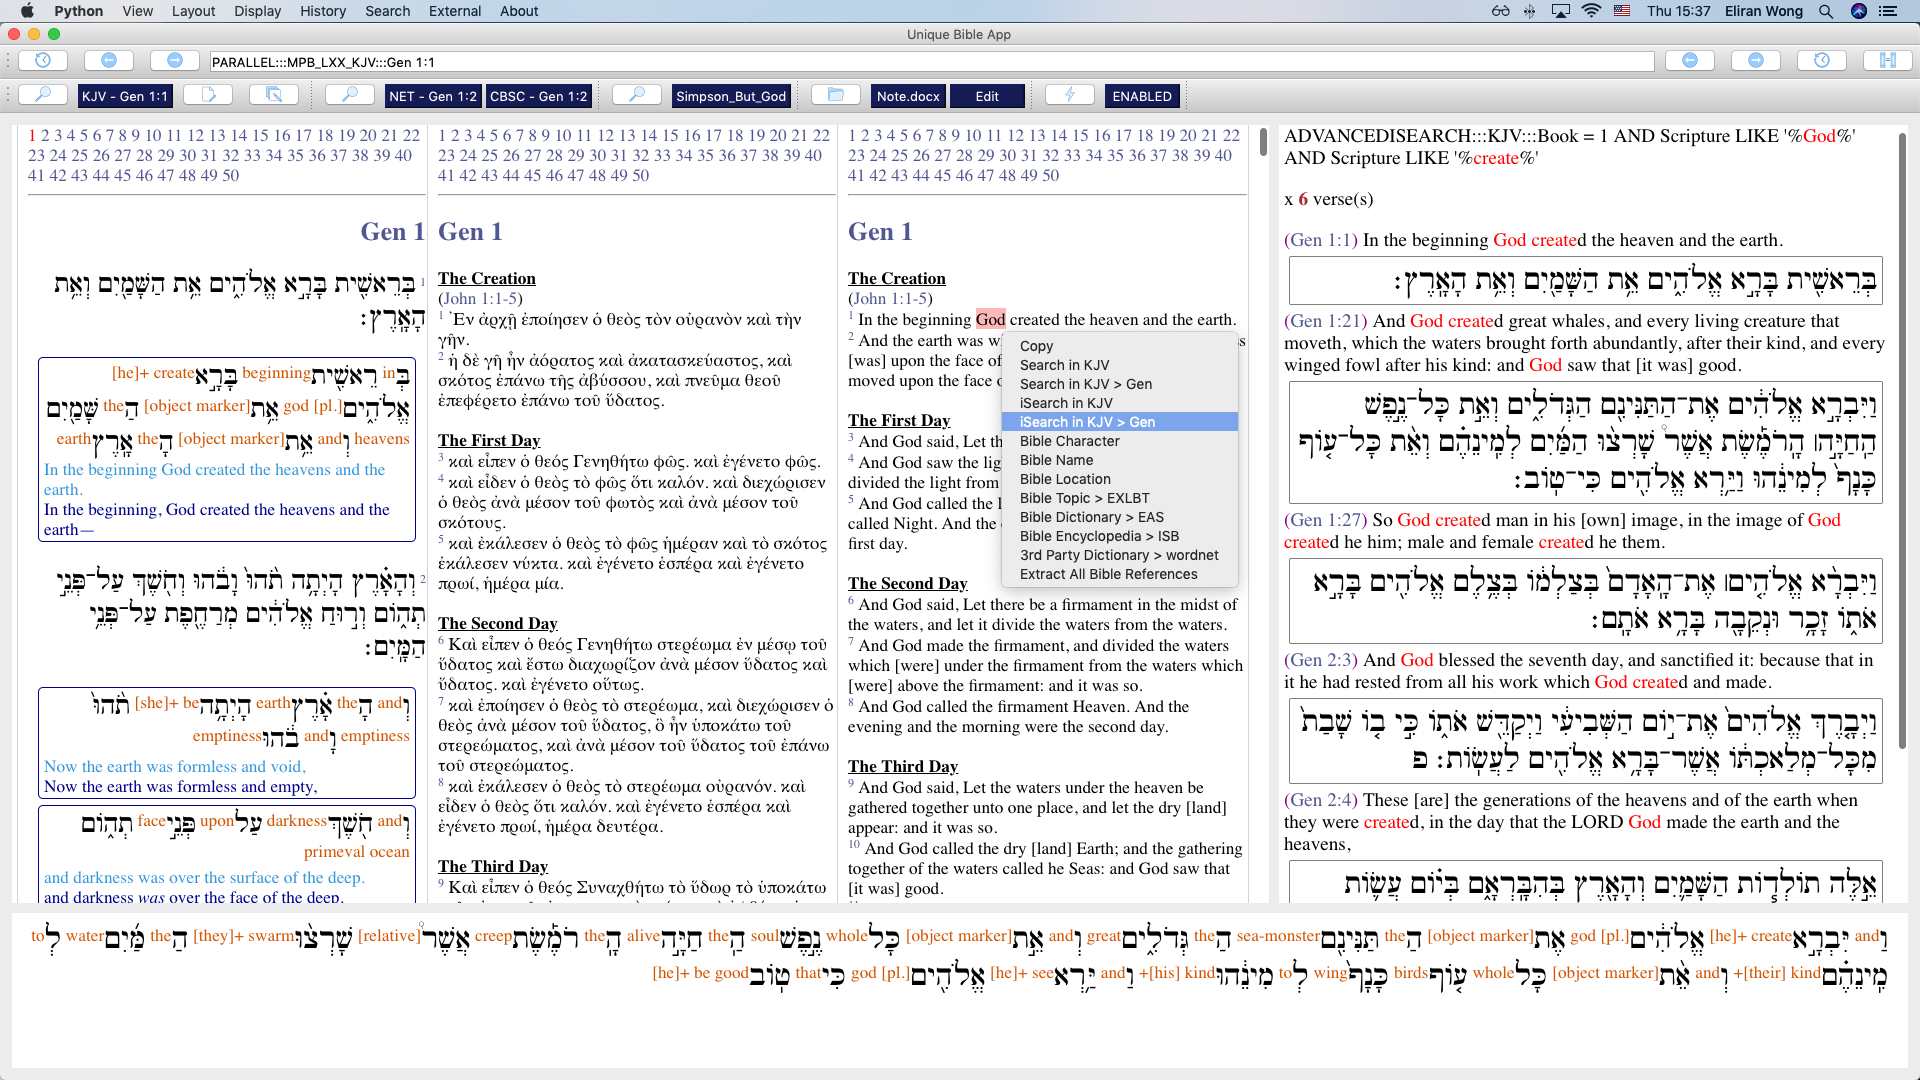
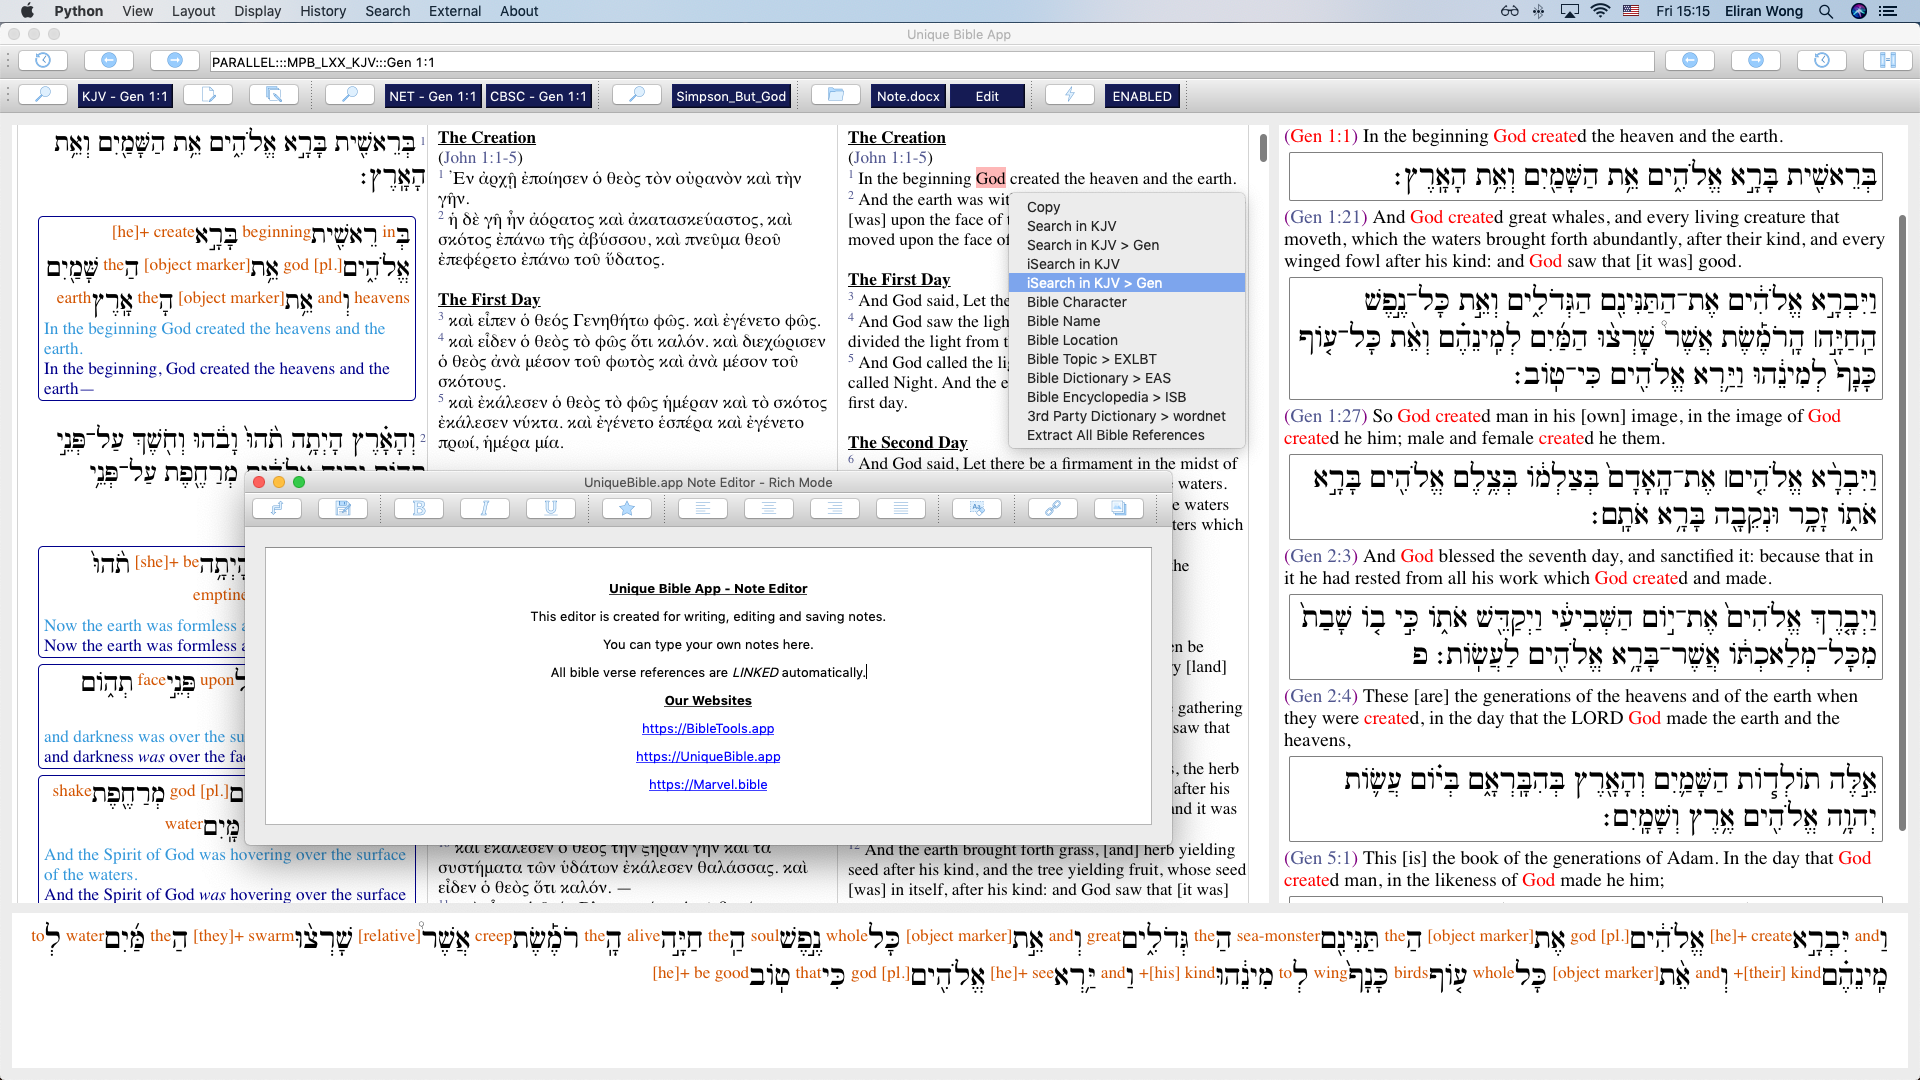
added rich text editing in note editor

Changed region(s): [[0.0, 0.1222, 1.0, 0.8556], [0.0, 0.0, 1.0, 0.0611]]

diff --git a/gui.py b/gui.py
@@ -1,7 +1,7 @@
 import os, sys, re, config, webbrowser, platform, subprocess
-from PySide2.QtCore import QUrl, Qt, QEvent
+from PySide2.QtCore import QUrl, Qt, QEvent, QDir
 from PySide2.QtGui import QIcon, QGuiApplication
-from PySide2.QtWidgets import (QAction, QBoxLayout, QGridLayout, QLineEdit, QMainWindow, QPushButton, QToolBar, QWidget, QFileDialog, QLabel, QFrame, QTextEdit)
+from PySide2.QtWidgets import (QAction, QGridLayout, QInputDialog, QLineEdit, QMainWindow, QPushButton, QToolBar, QWidget, QFileDialog, QLabel, QFrame, QTextEdit)
 from PySide2.QtWebEngineWidgets import QWebEnginePage, QWebEngineView
 from TextCommandParser import TextCommandParser
 from BibleVerseParser import BibleVerseParser
@@ -1132,7 +1132,7 @@ class NoteEditor(QWidget):
         super().__init__()
         self.parent, self.noteType = parent, noteType
         self.b, self.c, self.v = config.studyB, config.studyC, config.studyV
-        self.setWindowTitle("Unique Bible App - Note Editor")
+        self.setWindowTitle("UniqueBible.app Note Editor - Rich Mode")
         self.setupInterface()
         self.resizeWindow(2/3, 2/3)
         self.html = True
@@ -1178,6 +1178,14 @@ class NoteEditor(QWidget):
 
         self.toolBar.addSeparator()
 
+        customButton = QPushButton()
+        customButtonFile = os.path.join("htmlResources", "custom.png")
+        customButton.setIcon(QIcon(customButtonFile))
+        customButton.clicked.connect(self.format_custom)
+        self.toolBar.addWidget(customButton)
+
+        self.toolBar.addSeparator()
+
         leftButton = QPushButton()
         leftButtonFile = os.path.join("htmlResources", "align_left.png")
         leftButton.setIcon(QIcon(leftButtonFile))
@@ -1212,11 +1220,25 @@ class NoteEditor(QWidget):
 
         self.toolBar.addSeparator()
 
+        hyperlinkButton = QPushButton()
+        hyperlinkButtonFile = os.path.join("htmlResources", "hyperlink.png")
+        hyperlinkButton.setIcon(QIcon(hyperlinkButtonFile))
+        hyperlinkButton.clicked.connect(self.openInputDialog)
+        self.toolBar.addWidget(hyperlinkButton)
+
+        imageButton = QPushButton()
+        imageButtonFile = os.path.join("htmlResources", "gallery.png")
+        imageButton.setIcon(QIcon(imageButtonFile))
+        imageButton.clicked.connect(self.openImageDialog)
+        self.toolBar.addWidget(imageButton)
+
+        self.toolBar.addSeparator()
+
         self.editor = QTextEdit()
 
         self.layout = QGridLayout()
-        self.layout.addWidget(self.toolBar, 0, 0)
-        self.layout.addWidget(self.editor, 1, 0)
+        self.layout.setMenuBar(self.toolBar)
+        self.layout.addWidget(self.editor, 0, 0)
 
         self.setLayout(self.layout)
 
@@ -1225,19 +1247,22 @@ class NoteEditor(QWidget):
             note = self.editor.toHtml()
             self.editor.setPlainText(note)
             self.html = False
+            self.setWindowTitle("UniqueBible.app Note Editor - Plain Mode")
         else:
             note = self.editor.toPlainText()
             self.editor.setHtml(note)
             self.html = True
+            self.setWindowTitle("UniqueBible.app Note Editor - Rich Mode")
+        # without this hide / show command below, textedit does not update the text in some devices
+        self.hide()
+        self.show()
 
     def reloadNote(self):
         if self.html:
             note = self.editor.toHtml()
-            
             self.editor.setHtml(note)
         else:
             note = self.editor.toPlainText()
-            
             self.editor.setPlainText(note)
 
     def openNote(self):
@@ -1257,48 +1282,130 @@ class NoteEditor(QWidget):
         else:
             selectedText = re.sub("<[^\n<>]*?>", "", selectedText)
             self.editor.insertPlainText(selectedText)
+        self.hide()
+        self.show()
 
     def format_bold(self):
         if self.html:
             self.editor.setFontWeight(75)
         else:
             self.editor.insertPlainText("<b>{0}</b>".format(self.editor.textCursor().selectedText()))
+        self.hide()
+        self.show()
 
     def format_italic(self):
         if self.html:
             self.editor.setFontItalic(True)
         else:
             self.editor.insertPlainText("<i>{0}</i>".format(self.editor.textCursor().selectedText()))
+        self.hide()
+        self.show()
 
     def format_underline(self):
         if self.html:
             self.editor.setFontUnderline(True)
         else:
             self.editor.insertPlainText("<u>{0}</u>".format(self.editor.textCursor().selectedText()))
+        self.hide()
+        self.show()
 
     def format_center(self):
         if self.html:
             self.editor.setAlignment(Qt.AlignCenter)
         else:
             self.editor.insertPlainText("<div style='text-align:center;'>{0}</div>".format(self.editor.textCursor().selectedText()))
+        self.hide()
+        self.show()
 
     def format_justify(self):
         if self.html:
             self.editor.setAlignment(Qt.AlignJustify)
         else:
             self.editor.insertPlainText("<div style='text-align:justify;'>{0}</div>".format(self.editor.textCursor().selectedText()))
+        self.hide()
+        self.show()
 
     def format_left(self):
         if self.html:
             self.editor.setAlignment(Qt.AlignLeft)
         else:
             self.editor.insertPlainText("<div style='text-align:left;'>{0}</div>".format(self.editor.textCursor().selectedText()))
+        self.hide()
+        self.show()
 
     def format_right(self):
         if self.html:
             self.editor.setAlignment(Qt.AlignRight)
         else:
             self.editor.insertPlainText("<div style='text-align:right;'>{0}</div>".format(self.editor.textCursor().selectedText()))
+        self.hide()
+        self.show()
+
+    def format_custom(self):
+        selectedText = self.editor.textCursor().selectedText()
+        selectedText = self.customFormat(selectedText)
+        if self.html:
+            self.editor.insertHtml(selectedText)
+        else:
+            self.editor.insertPlainText(selectedText)
+        self.hide()
+        self.show()
+
+    def customFormat(self, text):
+        # QTextEdit's line break character by pressing ENTER in plain & html mode " "
+        # please note that " " is not an empty string
+        text = text.replace(" ", "\n")
+
+        text = re.sub("^\*[0-9]+? (.*?)$", r"<ol><li>\1</li></ol>", text, flags=re.M)
+        text = text.replace("</ol>\n<ol>", "\n")
+        text = re.sub("^\* (.*?)$", r"<ul><li>\1</li></ul>", text, flags=re.M)
+        text = text.replace("</ul>\n<ul>", "\n")
+        text = re.sub("^{.*?}$", self.formatHTMLTable, text, flags=re.M)
+        text = text.replace("</table>\n<table>", "\n")
+
+        # convert back to QTextEdit linebreak
+        text = text.replace("\n", " ")
+
+        return text
+
+    def formatHTMLTable(self, match):
+        row = match.group()[1:-1]
+        row = "".join(["<td>{0}</td>".format(cell) for cell in row.split("|")])
+        return "<table><tr>{0}</tr></table>".format(row)
+
+    def addImage(self, fileName):
+        imageTag = '<img src="{0}" alt="UniqueBible.app">'.format(fileName)
+        if self.html:
+            self.editor.insertHtml(imageTag)
+        else:
+            self.editor.insertPlainText(imageTag)
+        self.hide()
+        self.show()
+
+    def openImageDialog(self):
+        options = QFileDialog.Options()
+        fileName, filtr = QFileDialog.getOpenFileName(self,
+                "QFileDialog.getOpenFileName()",
+                self.parent.openFileNameLabel.text(),
+                "JPG Files (*.jpg);;JPEG Files (*.jpeg);;PNG Files (*.png);;GIF Files (*.gif);;BMP Files (*.bmp);;All Files (*)", "", options)
+        if fileName:
+            self.addImage(fileName)
+
+    def addHyperlink(self, hyperlink):
+        hyperlink = '<a href="{0}">{0}</a>'.format(hyperlink)
+        if self.html:
+            self.editor.insertHtml(hyperlink)
+        else:
+            self.editor.insertPlainText(hyperlink)
+        self.hide()
+        self.show()
+
+    def openInputDialog(self):
+        text, ok = QInputDialog.getText(self, "Add a hyperlink ...",
+                "Hyperlink:", QLineEdit.Normal,
+                "https://BibleTools.app")
+        if ok and text != '':
+            self.addHyperlink(text)
 
     def saveNote(self):
         if self.html:

diff --git a/NoteSqlite.py b/NoteSqlite.py
@@ -32,13 +32,13 @@ class NoteSqlite:
 
     def displayChapterNote(self, bcTuple):
         content = self.getChapterNote(bcTuple)
-        content = self.customFormat(content)
+        #content = self.customFormat(content)
         content = self.highlightSearch(content)
         return content
 
     def displayVerseNote(self, bcvTuple):
         content = self.getVerseNote(bcvTuple)
-        content = self.customFormat(content)
+        #content = self.customFormat(content)
         content = self.highlightSearch(content)
         return content
 
@@ -73,20 +73,6 @@ class NoteSqlite:
         query = "SELECT DISTINCT Book, Chapter, Verse FROM VerseNote WHERE Note LIKE ? ORDER BY Book, Chapter, Verse"
         self.cursor.execute(query, (searchString,))
         return ["<ref onclick='document.title=\"_openversenote:::{0}.{1}.{2}\"'>{3}</ref>".format(book, chapter, verse, BibleVerseParser(config.parserStandarisation).bcvToVerseReference(book, chapter, verse)) for book, chapter, verse in self.cursor.fetchall()]
-
-    def customFormat(self, text):
-        text = re.sub("^\*[0-9]+? (.*?)$", r"<ol><li>\1</li></ol>", text, flags=re.M)
-        text = text.replace("</ol>\n<ol>", "")
-        text = re.sub("^\* (.*?)$", r"<ul><li>\1</li></ul>", text, flags=re.M)
-        text = text.replace("</ul>\n<ul>", "")
-        text = re.sub("^{.*?}$", self.formatHTMLTable, text, flags=re.M)
-        text = text.replace("</table>\n<table>", "")
-        return text
-
-    def formatHTMLTable(self, match):
-        row = match.group()[1:-1]
-        row = "".join(["<td>{0}</td>".format(cell) for cell in row.split("|")])
-        return "<table><tr>{0}</tr></table>".format(row)
 
     def highlightSearch(self, content):
         highlight = config.noteSearchString
